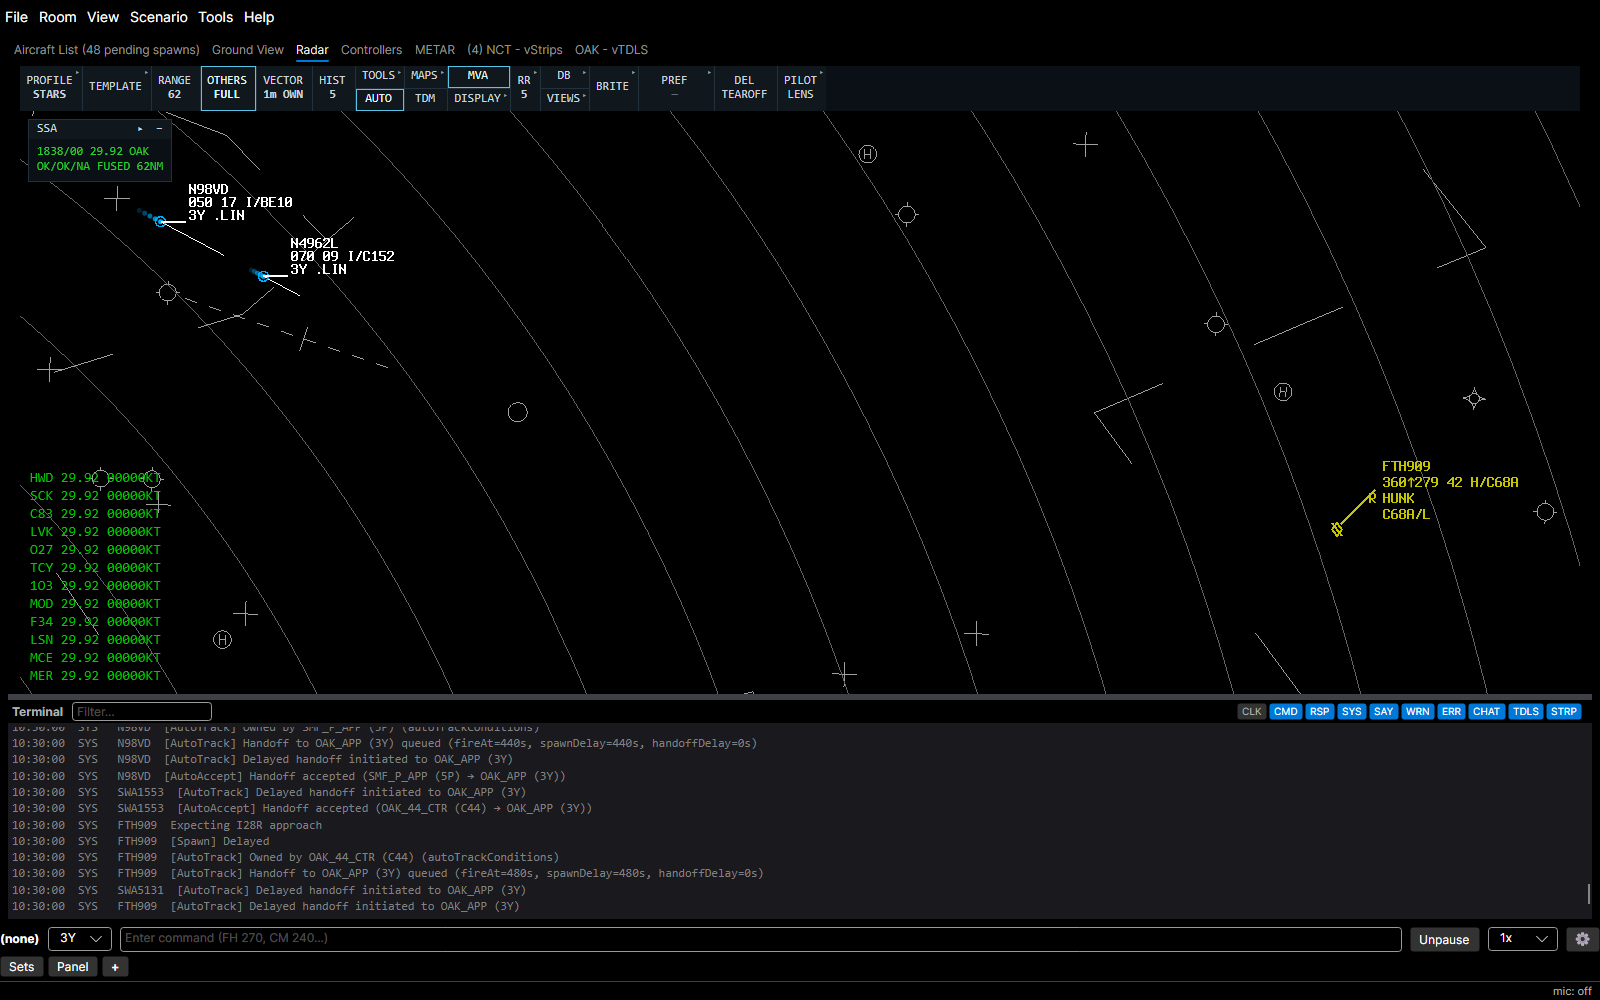
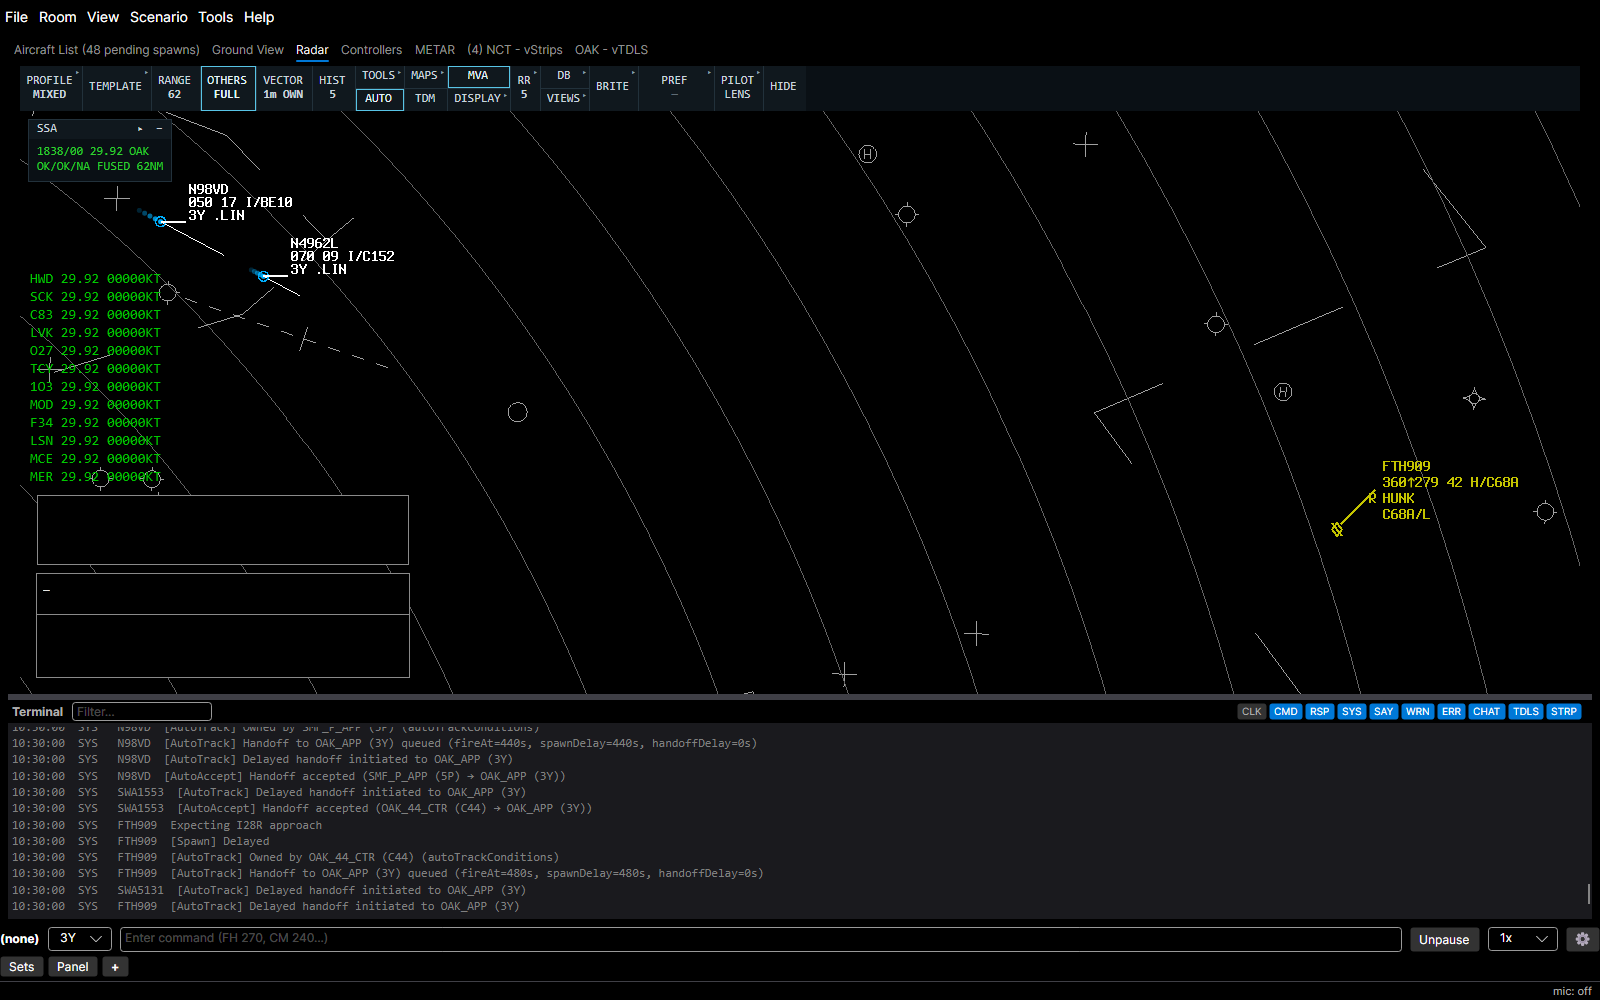
docs: show the default STARS DCB and ERAM toolbar on 0.20.0 page
The Radar-bar section now leads with the STARS DCB Main page and the
ERAM Master Toolbar at rest, before the YAAT page and menu shots, and
the ERAM-look shot is re-taken under the Mixed profile.

Refs: YAAT-2914

Changed region(s): [[0.0, 0.279, 0.125, 0.682], [0.4375, 0.062, 0.5, 0.093]]

diff --git a/docs/releases/whats-new-0.20.0-beta.md b/docs/releases/whats-new-0.20.0-beta.md
@@ -6,7 +6,7 @@ ERAM-template tracks on the Radar now draw the way CRC's ERAM display does, so i
 
 Settings › Appearance › Scope text picks how STARS and ERAM datablocks draw: Compact keeps the system monospace font, and Realistic draws Terminus Bold at CRC's text sizes, with its own size for STARS and for ERAM.
 
-![The Radar in the Mixed template with ERAM-look tracks beside STARS tracks, both in realistic text](img/whats-new-eram-look.png)
+![The Radar under the Mixed profile with an ERAM-look track beside STARS tracks, both in realistic text](img/whats-new-eram-look.png)
 
 ## Rundowns
 
@@ -21,6 +21,10 @@ View › Bars › Rundowns… opens a Rundowns window with the same lists, one s
 ## The Radar bar follows the profile
 
 The bar across the top of the Radar now matches the room's Radar profile. Under STARS it is CRC's STARS DCB, a black band of green bevelled tiles with its Main page, submenus and Aux page (SHIFT); under ERAM it is CRC's ERAM Master Toolbar with its menus; under Mixed it is the classic navy bar.
+
+![The Radar under the STARS profile with the STARS DCB on its Main page: RANGE, PLACE CNTR, RR, MAPS, the WX tiles, BRITE, CHAR SIZE, PREF, SHIFT, HIDE DCB and YAAT](img/whats-new-stars-dcb.png)
+
+![The Radar under the ERAM profile with CRC's ERAM Master Toolbar at rest: ATC TOOLS, RANGE, BRIGHT, FONT, DB FIELDS, VECTOR, VIEWS, GEOMAP, RADAR FILTER, PREFSET, HIDE TOOLBAR and YAAT](img/whats-new-eram-toolbar.png)
 
 YAAT's own controls (profile, template, others, tools, TDM, MVA, display, DB, views and the pilot lens) are on the DCB's YAAT page and in the Master Toolbar's YAAT menu. Any bar hides to a small SHOW tile with its HIDE button or `.scope bar hide`, and `.scope bar show` brings it back. Toolbar tiles no longer tear off onto the scope; view cards still float.
 
